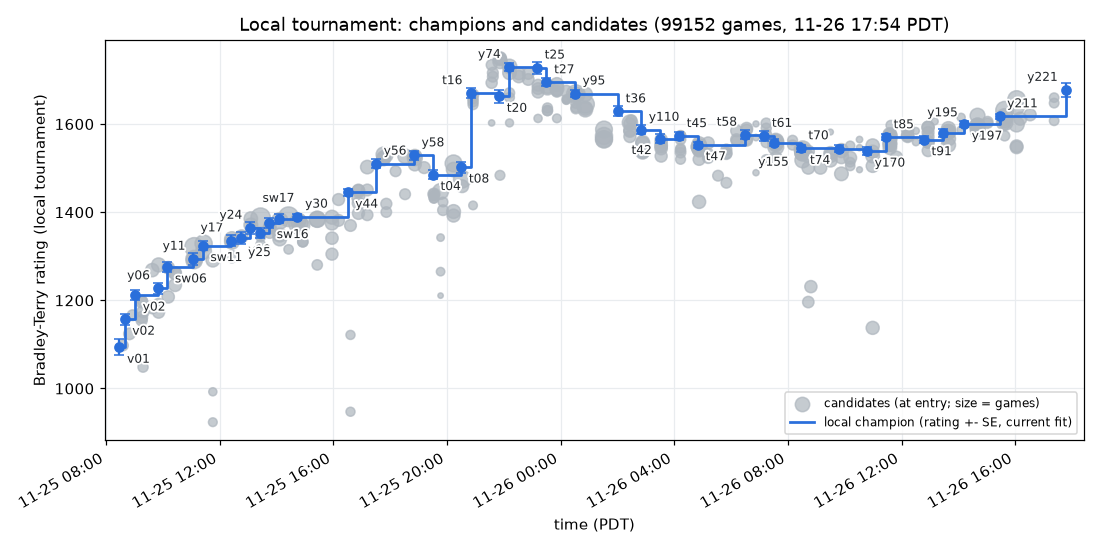
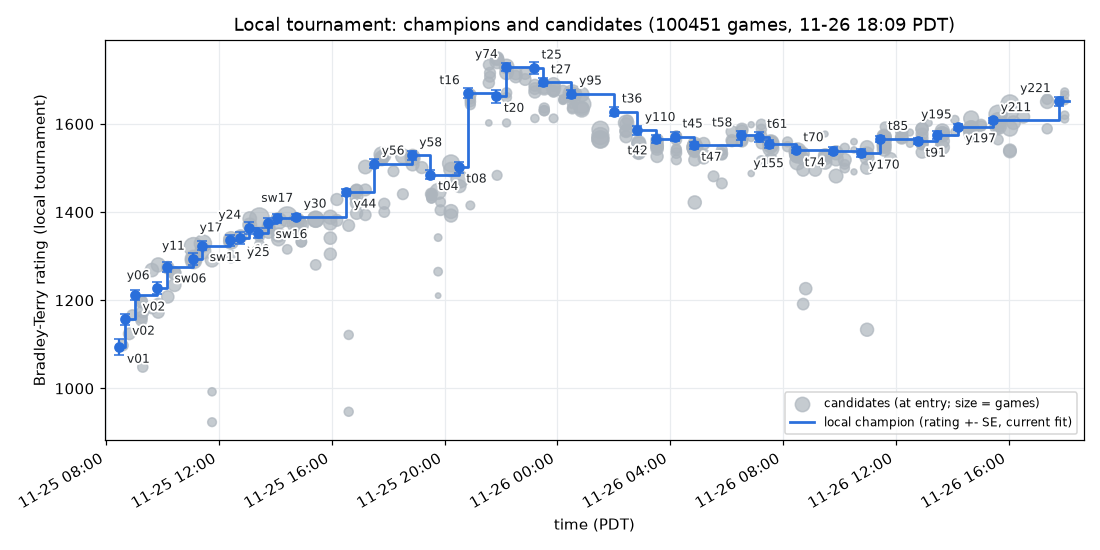
TRAINING_ALGORITHM.md, HANDOFF.md: confirmation stage (#46), replica slots (#35/#45/#47), clear the pool at crowning (#33), scheduling shares, pre-registration (#39), retire thresholds, 400-game runs (owner #50); PROMPTS #50
Claude-Session: https://claude.ai/code/session_01SzziPSCWtjsjju9cnThDf5

diff --git a/TRAINING_ALGORITHM.md b/TRAINING_ALGORITHM.md
@@ -8,15 +8,18 @@ earlier seasons' records (digests in `research/readings/`); where a rule carries
 **The method in one paragraph.** Build the instruments first, then a bot that clears a basics battery. From then on a
 continuous local tournament of our own builds, rated by Bradley-Terry, decides which build is champion. Every new
 build is one change on the champion. About half are small tunings, half are big strategy swings, and some copy field
-tactics that beat us. A build that clearly out-rates the champion replaces it and goes to the ladder at once. It is
-then audited, and its fixes compete as newcomers. Field bots play only on a private ladder replica. They supply ideas
-and the progress measure, never a verdict on a build.
+tactics that beat us. A build that clearly out-rates the champion, and still leads it in fresh games, replaces it and
+goes to the ladder at once. It is then audited, and its fixes compete as newcomers. The builds that did best on the
+ladder keep permanent places in the pool. Field bots play only on a private ladder replica. They supply ideas and the
+progress measure, never a verdict on a build.
 
 ## 0. Objective and instruments
 
 **Objective: strength against an unseen field, as the contest ladder measures it.** Beating our own past builds does
 not by itself mean beating anyone else. One season gained +311 Elo against its own lineage but only +12 on the
-ladder. So the field study steers what we build, the tournament judges builds, and the ladder keeps score.
+ladder. In another, 14 hours of crownings added 8 points against the earliest champion of that stretch while the ladder
+rating rose about 100, and hour-to-hour local and ladder changes correlated at only r = 0.15. So the field study steers
+what we build, the tournament judges builds, and the ladder keeps score.
 
 | instrument | answers | blind to |
 |---|---|---|
@@ -76,7 +79,16 @@ replica. That build is the first champion.
 ## 2. The loop: a continuous local tournament
 
 ### 2.1 Pool and names
-- About **10 bots**: the champion plus newcomers, half incremental and half swings. Refill whichever kind is short.
+- About **10 bots** besides the replica slots: the champion plus newcomers, half incremental tunings and half tactics
+  copied from the field or swings. Refill whichever kind is short.
+- **Replica slots** (owner prompts #35, #45, #47): the build with the best ladder rating ever, and the builds with the
+  next two best ladder peaks, keep permanent places. A peak is a champion's best ladder sample while it was the
+  submitted build; a sample counts for the champion submitted 15 minutes before it. Skip the current champion and the
+  record holder's direct parent and children: one change apart, they are nearly the same bot. The slots move when a
+  better peak appears.
+  - Why: the builds that beat the field best often rate well below newer champions locally (one season: 60-95
+    points), so a pool of recent builds alone loses what they know.
+  - They are regular entrants: never retired, no extra games and no separate score.
 - The pool file lists active bots. Retired bots stay as comments, unscheduled, but their games keep anchoring the fit.
 - Name prefixes tell the kinds apart (e.g. `yNN` tunings, `swNN` swings, `fxNN` audit fixes, `tNN` tactics
   imitated from enemy replays). A swing table records each strategy and its fate.
@@ -84,8 +96,17 @@ replica. That build is the first champion.
 ### 2.2 Ratings and the champion
 - **One Bradley-Terry fit over every local game** between pool or retired bots: any seat, any seed, the contest's map
   set. Each pair is capped at 200 games, and a weak prior keeps unplayed bots finite.
-- **A bot becomes champion when it has at least MIN_GAMES games and leads the champion by more than one combined SE**,
+- **A bot qualifies when it has at least MIN_GAMES games and leads the champion by more than one combined SE**,
   √(SE₁² + SE₂²). The margin is hysteresis, so near-equal bots do not trade the title on noise.
+- **A qualifier is crowned after confirmation** (owner #46): CONFIRM_GAMES fresh games, from runs that had not started
+  when it qualified, in which it still leads the champion (> 0). The fit for this drops the bot's earlier games and
+  keeps everything else.
+  - Why: of ten candidates, the first to clear a bar is partly lucky (winner's curse). In one season, 16 of the first 40
+    champions later rated below the bot they replaced. Fresh games are free of that selection.
+  - The bar is deliberately mild, so real gains are not thrown away: a bot that fails is not retired. Its window
+    restarts and it keeps playing under the normal rules.
+  - The champion keeps playing during the window, so the comparison stays defined. When several bots confirm, crown
+    the highest rated.
 - **Early ratings mean little**: swings of ±70 before about 50 games, and new champions usually settle downward. Never
   retire a bot or celebrate one before about 50 games.
 
@@ -102,17 +123,28 @@ replica. That build is the first champion.
 - A run is a fixed number of games, each on a random map from the contest set with a random seed and random seats.
 - Newcomers under NEW_MIN games get half of each run, weighted by the games they lack. Half of those are against the
   champion.
+- A quarter of each run: the champion against the rated bots, weighted by their SEs. Otherwise bots planned only among
+  themselves drift away from it.
+- Each bot in its confirmation window plays the champion in another tenth of each run, so confirming costs about one
+  cycle.
 - The rest goes to pairs among the top bots, weighted toward close ratings and large SEs.
 - Count planned-but-unplayed games so consecutive plans don't over-feed one newcomer. Take a queued run off the queue
-  before re-planning it.
+  before re-planning it, and check the copy the game machine holds against the plan.
+- After a crowning, re-plan every queued run that hasn't started, so retired bots don't take its games.
 
 ### 2.5 Crowning
 In one cycle: submit the champion to the ladder; record it (time, bot, base, change, submission); make the working bot
-a copy of it; log it; regenerate the champion Elo chart (wall-clock x axis, owner prompt #5); commit. Expect ladder dips: the tournament, not the ladder, judges builds.
+a copy of it; log it; regenerate the champion Elo chart (wall-clock x axis, owner prompt #5); commit. Expect ladder
+dips: the tournament, not the ladder, judges builds.
+
+**Clear the pool at each crowning** (owner #33). Retire the old champion and every bot built on it, except the
+replica slots. Port the promising changes onto the new champion as newcomers, and drop those the new champion already
+contains. Every rated difference then has one cause again, against the champion that matters.
 
 ### 2.6 Retiring
-Retire a bot far below the champion after about 200 games, or more than 2 SE below after about 50. A losing swing
-first gets a second version that fixes its first visible failure.
+Retire a bot about 20 or more below the champion after about 200 games, more than 2 SE below after about 50, or flat
+(within a few points) after about 500. A losing swing first gets a second version that fixes its first visible failure.
+Never retire a replica slot, or a bot because it failed confirmation.
 
 ### 2.7 Auditing a new champion
 Once the queue is full, audit the diff from the previous champion only:
@@ -156,7 +188,16 @@ production, movement, combat, defence, scouting), build in another area.
   champion.
 - Games are deterministic per (pair, map, seed, seats). Re-running a borderline result adds nothing; new seeds do.
 - One game filters an idea; it never decides one.
-- Self-play blind spots are accepted risk, corrected by the field study and by the next champions.
+- Self-play blind spots are accepted risk, corrected by the field study, the replica slots and the next champions.
+- The rated lead of the bot that first clears a bar is biased upward (winner's curse). Confirm on fresh games before
+  acting on it.
+- Check transitivity now and then: a chi-square of the pairwise results against the single fit. In one season it was
+  17.6 on 17 degrees of freedom, with no clear A > B > C > A cycles, so one rating per bot is enough. If cycles appear,
+  compare bots against a set of opponents rather than by one rating.
+- A pattern found by looking at the data is a hypothesis, not a result. Pre-register it: write down the definitions,
+  the test, the decision rule, the evaluation date and the code, and commit them. Then test it once, on data that came
+  later (owner #39). Note any later change to the process that bears on how to read the result, before that data
+  exists.
 - Ladder ratings drift upward over a season. Judge progress by rank and by the gap to reference places (#5, #10, #20).
 
 ## 5. The ladder replica
@@ -186,15 +227,16 @@ A failed build condemns one implementation, not the idea.
 **Prod cycle (about 20 minutes)**:
 1. Check the game machine.
 2. Pull and rank.
-3. Crown if a bot qualifies.
+3. Crown a confirmed bot; a qualifier enters its confirmation window.
 4. Keep at least 5 runs queued.
 5. Audit a new champion.
-6. Add and retire bots to hold about 10.
+6. Add and retire bots to hold about 10 besides the replica slots; keep the slots current.
 7. Check the champion's ladder matches.
 8. Log, commit and push.
-9. Refresh the charts.
+9. Refresh the charts and the owner's dashboard. Run any pre-registered test that is due, once.
 10. Report:
-    - tournament size and the pool table (rating ± SE, games, lead over the champion and the lead it needs);
+    - tournament size and the pool table (rating ± SE, games, lead over the champion and the lead it needs, bots
+      confirming);
     - changes since the last cycle;
     - audit outcome;
     - ladder rank;
@@ -218,7 +260,8 @@ A failed build condemns one implementation, not the idea.
 ## 8. Records
 - **Training log** (append-only): numbers each cycle, newcomers, retirements, directives.
 - **Attempts table**: one row per build with base, change, motivation and fate.
-- **Champion history**, pool file, swing table, audit reports and field-study write-ups.
+- **Champion history**, pool file (with the replica slots marked), confirmation state, swing table, audit reports,
+  field-study write-ups and pre-registrations.
 - **Progress charts on wall-clock axes**: local champion rating, ladder rank and rating, with milestones marked.
 
 Records hold measurements, not stories, and nothing stale stays.
@@ -227,12 +270,16 @@ Records hold measurements, not stories, and nothing stale stays.
 
 | parameter | default |
 |---|---|
-| pool | about 10 bots: champion + newcomers, half incremental, half swings |
-| champion rule | ≥ MIN_GAMES = 200 games and a lead > √(SE₁² + SE₂²) over the champion |
+| pool | about 10 bots: champion + newcomers, half incremental, half field tactics or swings; plus 3 replica slots |
+| replica slots | the best ladder rating ever + the next two best ladder peaks; not the champion, not the holder's parent or children |
+| qualify | ≥ MIN_GAMES = 200 games and a lead > √(SE₁² + SE₂²) over the champion |
+| confirm | CONFIRM_GAMES = 150 fresh games in which the lead is still > 0; failing restarts the window |
+| at a crowning | retire the bots built on the old champion (not the replica slots), port the promising ones, re-plan queued runs |
+| champion share | a quarter of each run vs the rated bots (by SE); another tenth vs each confirming bot |
 | newcomer share | bots under NEW_MIN = 40 games get half of each run, half of that vs the champion |
-| run | 120-200 games, random contest map, random seed in 0-9, random seats |
+| run | 400 games, random contest map, random seed in 0-9, random seats |
 | fit | Bradley-Terry, weak prior, ≤ 200 games per pair, retired bots' games kept |
-| retire | far below after ~200 games, or > 2 SE below after ~50; swings get a second version first |
+| retire | ~20 below after ~200 games, > 2 SE below after ~50, or flat after ~500; swings get a second version first; never a replica slot |
 | queue | ≥ 5 runs queued past the next cycle |
 | cycle | about every 20 minutes |
 | plateau | champion unchanged for 12 hours, or 10 straight newcomers below it |

diff --git a/progress/local-elo.md b/progress/local-elo.md
@@ -1,6 +1,6 @@
 # Local tournament Elo
 
-Bradley-Terry ratings of our own bots in the local tournament (`tools/tourney.py`), all 99152 games in one fit as of 2026-11-26 17:58 PDT, so every point is on the same scale; earlier champions are shown at their current rating, and "Gain" is the rating over the champion it replaced. `tools/tourney.py rank` rewrites this table; `tools/tourney.py chart` also redraws the chart.
+Bradley-Terry ratings of our own bots in the local tournament (`tools/tourney.py`), all 100451 games in one fit as of 2026-11-26 18:10 PDT, so every point is on the same scale; earlier champions are shown at their current rating, and "Gain" is the rating over the champion it replaced. `tools/tourney.py rank` rewrites this table; `tools/tourney.py chart` also redraws the chart.
 
 ![local elo](local-elo.png)
 
@@ -26,25 +26,25 @@ Bradley-Terry ratings of our own bots in the local tournament (`tools/tourney.py
 | 2026-11-25 19:30 | t04 | t02 (no coverage painting before r80) + t03 (units wait beside drained money towers and repair their pattern so churn fires; study 3 tactics 2 and 4) on y58 | #49 | 1485 +- 11 | -44 | 1065 |
 | 2026-11-25 20:30 | t08 | study 4 2.2 (contested ruins): soldiers skip a ruin with enemy paint in its visible 5x5 (bad for 50 rounds) on t04 | #50 | 1502 +- 13 | +17 | 775 |
 | 2026-11-25 20:50 | t16 | t12 (t08 + study 4 2.1 spawn freeze 8 rounds in 20 below 1000+cost) + study 4 2.4 money-first: builds money until 8 towers then paint while paint towers < n/5; paint first only if none (all towers known) on t08 | #51 | 1670 +- 11 | +168 | 1213 |
-| 2026-11-25 21:50 | t20 | study 4 2.3: splashers weight enemy towers 30 (was 12) in the splash score on t16 | #52 | 1663 +- 15 | -7 | 587 |
+| 2026-11-25 21:50 | t20 | study 4 2.3: splashers weight enemy towers 30 (was 12) in the splash score on t16 | #52 | 1662 +- 15 | -7 | 587 |
 | 2026-11-25 22:10 | y74 | unit audit (owner prompt #15): splash-grid bug fix (enemy tiles never scored) + moppers stop once enemy paint is in mop reach; built on t16 on t20 | #53 | 1729 +- 10 | +67 | 1255 |
 | 2026-11-25 23:10 | t25 | unit audit + top teams' unit mix (616 S / 662 X / 701 M): after r80 paint towers cycle soldier-splasher-mopper; money towers keep S M X M S M on y74 | #54 | 1728 +- 13 | -1 | 680 |
-| 2026-11-25 23:30 | t27 | top teams' splasher-heavy late mix pushed further: paint towers cycle soldier-splasher-splasher-mopper after r80 on t25 | #55 | 1695 +- 9 | -33 | 1554 |
-| 2026-11-26 00:30 | y95 | upgrade spare 1200 (was 800): chips stay for new towers longer on t27 | #56 | 1669 +- 9 | -25 | 1822 |
-| 2026-11-26 02:01 | t36 | late SRPs (study 4 2.6 / study 3 tactic 7): soldiers without a ruin build SRPs on the x%4==2 y%4==2 lattice from r100 with chips>=1000; splashers avoid repainting SRP secondary tiles on y95 | #57 | 1629 +- 11 | -40 | 977 |
-| 2026-11-26 02:50 | y110 | money towers upgrade only with 2500 chips beyond the cost+spare (was 1000): chips go to new towers and SRPs on t36 | #58 | 1587 +- 10 | -42 | 1260 |
-| 2026-11-26 03:30 | t42 | study 4 3.1 recovery: with every tower known and no money tower left the next ruin is a money tower on y110 | #59 | 1567 +- 10 | -20 | 1332 |
-| 2026-11-26 04:10 | t45 | study 3 tactic 1: after r40 towers spawn only with 1000 chips beyond the unit's cost (no 600-chip window) on t42 | #60 | 1573 +- 10 | +6 | 1226 |
-| 2026-11-26 04:50 | t47 | study 3 tactic 5: a mopper due in the cycle spawns even below the 1000 reserve when an enemy robot is within d2 20 of the tower on t45 | #61 | 1553 +- 7 | -20 | 2398 |
-| 2026-11-26 06:30 | t58 | study 5 2.3: a splasher that has not splashed for 8 rounds (while able to) explores instead of chasing the nearest non-ally tile on t47 | #62 | 1576 +- 11 | +23 | 1087 |
-| 2026-11-26 07:10 | t61 | study 5 2.1 (softened): money towers for builds 1-5; then one more paint tower per 4 towers on t58 | #63 | 1573 +- 11 | -3 | 938 |
-| 2026-11-26 07:30 | y155 | study 5 2.1 tuned: money towers for builds 1-6; then one more paint tower per 4 towers on t61 | #64 | 1558 +- 9 | -15 | 1615 |
-| 2026-11-26 08:27 | t70 | y155 + splashers weight enemy towers 30 (t68) + 2000+ chips makes the next tower a paint tower (y159) on y155 | #65 | 1545 +- 7 | -13 | 2530 |
-| 2026-11-26 09:47 | t74 | moppers weight enemy paint near ruins 40 (study 6 2.1c) on t70 | #66 | 1544 +- 8 | -1 | 1934 |
-| 2026-11-26 10:47 | y170 | soldiers make the next tower a paint tower at 1500+ chips (t63 tuning; was 2000) on t74 | #67 | 1538 +- 9 | -6 | 1425 |
-| 2026-11-26 11:27 | t85 | study 6 2.2 ruin denial from where the soldier stands: a soldier with no ruin paints empty tiles of a ruin the enemy is building; without walking to it on y170 | #68 | 1570 +- 7 | +32 | 2556 |
-| 2026-11-26 12:47 | t91 | study 7 2.5: moppers ignore ruins under enemy towers when weighting ruin paint on t85 | #69 | 1564 +- 8 | -6 | 2097 |
-| 2026-11-26 13:27 | y195 | study 7 2.1a: explore unseen tiles first; up to 16 random draws on t91 | #70 | 1580 +- 9 | +15 | 1349 |
-| 2026-11-26 14:12 | y197 | ruin denial stops at 2 of our tiles (tuning of study 6 2.2) on y195 | #71 | 1600 +- 7 | +20 | 2235 |
-| 2026-11-26 15:27 | y211 | study 7 2.1a tuned: up to 128 random draws for an unseen explore target (was 16) on y197 | #72 | 1617 +- 6 | +18 | 3636 |
-| 2026-11-26 17:47 | y221 | study 8 2.2 (paint the first tower's pattern on the way in; a second soldier on the first ruin) + explore timeout 90; first champion through the confirmation stage (owner #46) on y211 | #73 | 1677 +- 17 | +60 | 546 |
+| 2026-11-25 23:30 | t27 | top teams' splasher-heavy late mix pushed further: paint towers cycle soldier-splasher-splasher-mopper after r80 on t25 | #55 | 1694 +- 9 | -33 | 1554 |
+| 2026-11-26 00:30 | y95 | upgrade spare 1200 (was 800): chips stay for new towers longer on t27 | #56 | 1669 +- 9 | -26 | 1822 |
+| 2026-11-26 02:01 | t36 | late SRPs (study 4 2.6 / study 3 tactic 7): soldiers without a ruin build SRPs on the x%4==2 y%4==2 lattice from r100 with chips>=1000; splashers avoid repainting SRP secondary tiles on y95 | #57 | 1628 +- 11 | -41 | 977 |
+| 2026-11-26 02:50 | y110 | money towers upgrade only with 2500 chips beyond the cost+spare (was 1000): chips go to new towers and SRPs on t36 | #58 | 1586 +- 10 | -42 | 1260 |
+| 2026-11-26 03:30 | t42 | study 4 3.1 recovery: with every tower known and no money tower left the next ruin is a money tower on y110 | #59 | 1566 +- 10 | -20 | 1332 |
+| 2026-11-26 04:10 | t45 | study 3 tactic 1: after r40 towers spawn only with 1000 chips beyond the unit's cost (no 600-chip window) on t42 | #60 | 1571 +- 10 | +6 | 1226 |
+| 2026-11-26 04:50 | t47 | study 3 tactic 5: a mopper due in the cycle spawns even below the 1000 reserve when an enemy robot is within d2 20 of the tower on t45 | #61 | 1551 +- 7 | -20 | 2398 |
+| 2026-11-26 06:30 | t58 | study 5 2.3: a splasher that has not splashed for 8 rounds (while able to) explores instead of chasing the nearest non-ally tile on t47 | #62 | 1574 +- 11 | +22 | 1087 |
+| 2026-11-26 07:10 | t61 | study 5 2.1 (softened): money towers for builds 1-5; then one more paint tower per 4 towers on t58 | #63 | 1571 +- 11 | -3 | 938 |
+| 2026-11-26 07:30 | y155 | study 5 2.1 tuned: money towers for builds 1-6; then one more paint tower per 4 towers on t61 | #64 | 1554 +- 9 | -16 | 1615 |
+| 2026-11-26 08:27 | t70 | y155 + splashers weight enemy towers 30 (t68) + 2000+ chips makes the next tower a paint tower (y159) on y155 | #65 | 1540 +- 7 | -14 | 2530 |
+| 2026-11-26 09:47 | t74 | moppers weight enemy paint near ruins 40 (study 6 2.1c) on t70 | #66 | 1539 +- 8 | -1 | 2070 |
+| 2026-11-26 10:47 | y170 | soldiers make the next tower a paint tower at 1500+ chips (t63 tuning; was 2000) on t74 | #67 | 1534 +- 9 | -5 | 1570 |
+| 2026-11-26 11:27 | t85 | study 6 2.2 ruin denial from where the soldier stands: a soldier with no ruin paints empty tiles of a ruin the enemy is building; without walking to it on y170 | #68 | 1566 +- 7 | +32 | 2556 |
+| 2026-11-26 12:47 | t91 | study 7 2.5: moppers ignore ruins under enemy towers when weighting ruin paint on t85 | #69 | 1561 +- 7 | -5 | 2231 |
+| 2026-11-26 13:27 | y195 | study 7 2.1a: explore unseen tiles first; up to 16 random draws on t91 | #70 | 1575 +- 9 | +14 | 1349 |
+| 2026-11-26 14:12 | y197 | ruin denial stops at 2 of our tiles (tuning of study 6 2.2) on y195 | #71 | 1593 +- 7 | +19 | 2235 |
+| 2026-11-26 15:27 | y211 | study 7 2.1a tuned: up to 128 random draws for an unseen explore target (was 16) on y197 | #72 | 1608 +- 6 | +15 | 3707 |
+| 2026-11-26 17:47 | y221 | study 8 2.2 (paint the first tower's pattern on the way in; a second soldier on the first ruin) + explore timeout 90; first champion through the confirmation stage (owner #46) on y211 | #73 | 1652 +- 10 | +43 | 1305 |

diff --git a/HANDOFF.md b/HANDOFF.md
@@ -41,8 +41,16 @@ season's tools. Times are the owner's zone: `TZ=America/Vancouver` (UTC-7, "PDT"
   `bots/CHAMP` to a scratch directory, edit it, then `snapshot.sh NEW scratch/CHAMP`.
 
 ## Tournament (`tools/tourney.py`)
-- `rank`, `plan RUN --games 200`, `add BOT`, `chart` (the chart needs `~/.venv-bc25b/bin/python`).
-- State lives in `research/tourney/`: `pool.txt`, `champion.txt`, `champions.csv`.
+- `rank`, `plan RUN --games 400`, `add BOT`, `chart` (the chart needs `~/.venv-bc25b/bin/python`).
+- State lives in `research/tourney/`: `pool.txt`, `champion.txt`, `champions.csv`, `confirm.txt`.
+- Confirmation stage (owner prompt #46, from 2026-11-26 17:13 PDT): `rank` prints `CONFIRMING X` for a qualifier and
+  records `X RUN` in `confirm.txt`. X's fresh games are its games in runs after RUN (`tourney.fresh`). After
+  `CONFIRM_GAMES` (150) fresh games, a fresh lead > 0 prints `NEW CHAMPION`. Otherwise `NOT CONFIRMED` restarts the
+  window, and the bot is not retired. `plan` gives each confirming bot `n // 10` extra games against the champion.
+- Replica slots (owner prompts #35, #45, #47): `pool.txt` lines whose comment says `replica record` (the record
+  holder) or `replica reference` (the next two best replica peaks). `tools/record.py`, run in `prod.sh replica`,
+  names the three and prints `ADD` or retire lines. They are never retired and get no extra games; the dashboard shows
+  them as Best Replica and Replica Ref.
 - Queue a run with `tools/box.sh queue RUN`, collect it with `tools/box.sh pull RUN`. Before re-planning a queued
   run, check `tools/box.sh status`: never re-plan one that has started.
 - Crowning:
@@ -71,7 +79,11 @@ and 15 (and 20, plus our previous attempt bc25-vibe-orig, from owner prompt #13)
 champion beats the one it replaced by `BIG_GAIN` (40) or more local Elo in the present fit (owner prompt #10).
 
 ## Automation (2026-11-26)
-- `tools/prod.sh pull|queue [N]|replica|disk|commit MSG PATH...`: the mechanical prod steps.
+- `tools/prod.sh pull|queue [N]|replica|board OUT|disk|commit MSG PATH...`: the mechanical prod steps (`board` writes
+  the dashboard's JSON, `tools/board.py`).
+- Dashboard: https://claude.ai/artifact/DstLySDMnQvBtaAszuM2nB (pool, ladder and local charts, champion history).
+- Pre-registered test: `research/replica/PREREG.md` with `research/replica/deltatest.py`, evaluated once at the first
+  prod on or after 2026-11-29 16:07 PDT (owner prompts #39, #48).
 - `tools/crown.sh NEW OLD "desc"`: the whole crowning (champion.txt first, submit, champions.csv, src/vibe, retire OLD,
   chart, audit diff, unit tests).
 - `tools/variant.py NEW BASE FILE OLD NEW ...` builds a candidate from exact single-occurrence edits;

diff --git a/PROMPTS.md b/PROMPTS.md
@@ -173,3 +173,6 @@ I'm good with your option 3, as stated.  If the anomalous dip in the delta Elo c
 
 ## #49 (2026-11-26 17:29 PDT)
 There's an error in the Confirming status.  It's showing NaN/NaN instead of 0/150
+
+## #50 (2026-11-26 18:09 PDT)
+Let's make sure that TRAINING_ALGORITHM is up to date with the new approach
